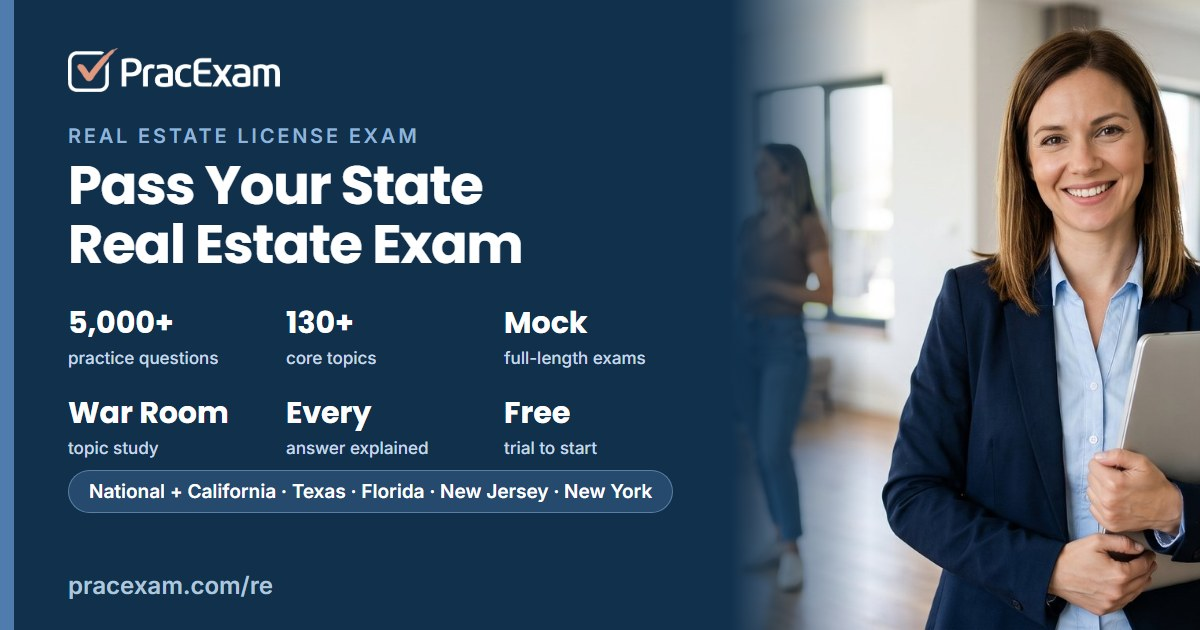
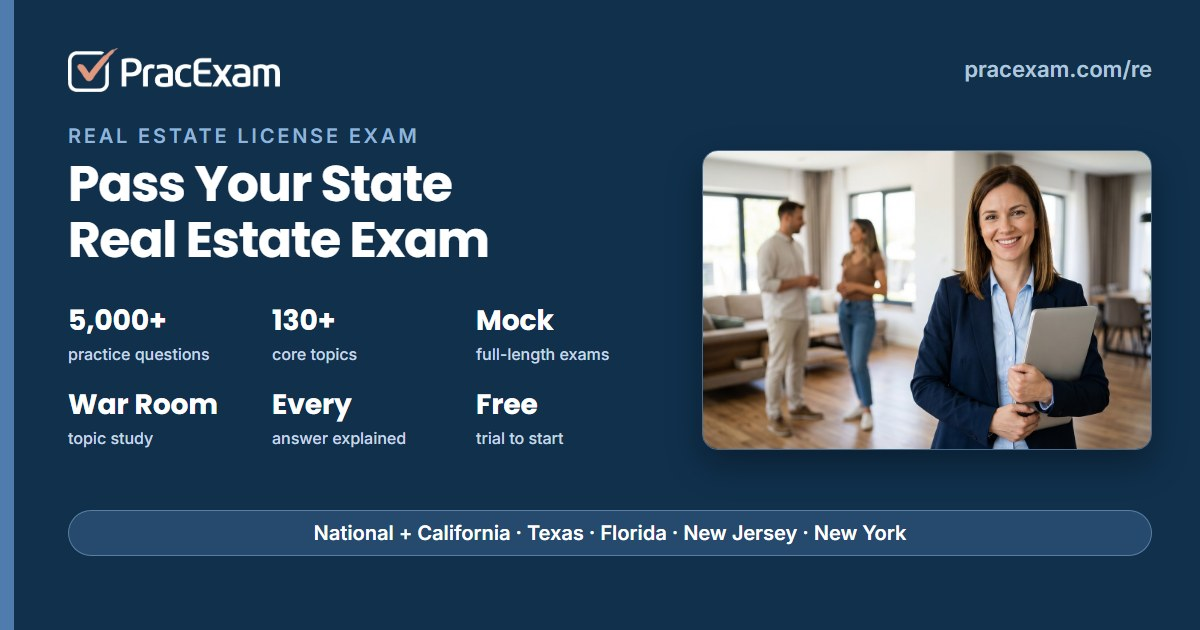
RE share image: whole hero photo, smaller, so the couple shows

diff --git a/re/index.html b/re/index.html
@@ -59,7 +59,7 @@
 <meta property="og:url" content="https://pracexam.com/re/">
 <meta property="og:title" content="Real Estate License Exam Practice Questions | PracExam">
 <meta property="og:description" content="Real estate license exam practice questions for the national portion and your state portion (California, Texas, Florida, New Jersey, New York), with detailed explanations and exam tips.">
-<meta property="og:image" content="https://pracexam.com/og-re.jpg?v=2">
+<meta property="og:image" content="https://pracexam.com/og-re.jpg?v=3">
 <meta property="og:image:width" content="1200">
 <meta property="og:image:height" content="630">
 <meta property="og:locale" content="en_US">
@@ -67,7 +67,7 @@
 <meta name="twitter:card" content="summary_large_image">
 <meta name="twitter:title" content="Real Estate License Exam Practice Questions | PracExam">
 <meta name="twitter:description" content="Real estate license exam practice questions for the national portion and your state portion (California, Texas, Florida, New Jersey, New York), with detailed explanations and exam tips.">
-<meta name="twitter:image" content="https://pracexam.com/og-re.jpg?v=2">
+<meta name="twitter:image" content="https://pracexam.com/og-re.jpg?v=3">
 
 <script type="application/ld+json">
 {
